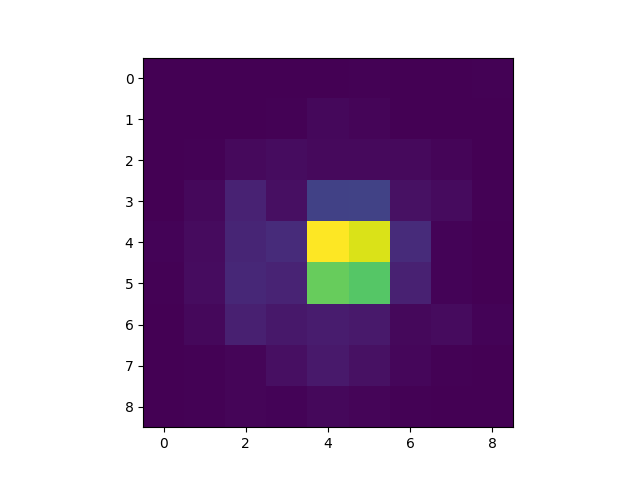
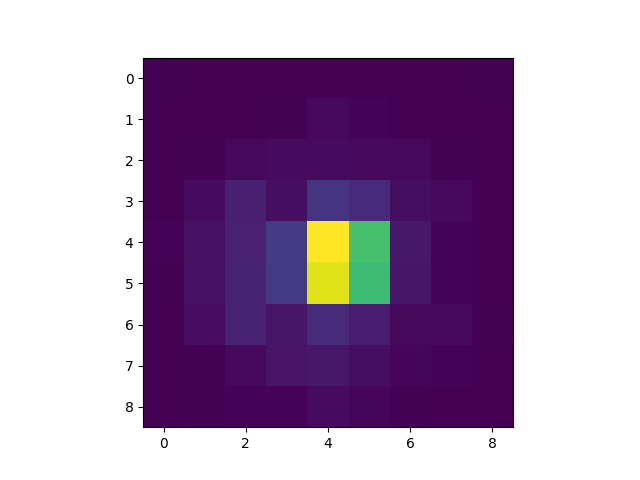
fixed psf offset

Changed region(s): [[0.4688, 0.4375, 0.625, 0.6562]]

diff --git a/st_phot/photometry.py b/st_phot/photometry.py
@@ -82,8 +82,7 @@ class observation3():
         else:
             positions = np.atleast_2d(xy_positions)
         if self.telescope=='JWST':
-            #radius,apcorr,skyan_in,skyan_out = jwst_apcorr(self.fname,encircled_energy)
-            radius,apcorr,skyan_in,skyan_out = 5,1,6,8
+            radius,apcorr,skyan_in,skyan_out = jwst_apcorr(self.fname,encircled_energy)
             epadu = self.sci_header['XPOSURE']*self.sci_header['PHOTMJSR']
         else:
             if self.sci_header['BUNIT']=='ELECTRON':
@@ -221,14 +220,17 @@ class observation():
                 else:
                     x,y = plant_locations[i]
                 flux = JWST_mag_to_flux(magnitudes[j],self.wcs_list[i])
-                
-                flux = flux/np.sum(psf_model.data)/psf_corr
+                psf_model.x_0 = x
+                psf_model.y_0 = y
+                psf_model.flux = flux/np.sum(psf_model.data)#/psf_corr
+                #psf_arr = flux*psf_model.data/astropy.nddata.extract_array(\
+                #    self.pams[i],psf_model.data.shape,[x,y])
+                yf, xf = np.mgrid[0:temp['SCI',1].data.shape[0],0:temp['SCI',1].data.shape[1]].astype(int)
+                psf_arr = psf_model(yf,xf)
+            
 
-                psf_arr = flux*psf_model.data/astropy.nddata.extract_array(\
-                    self.pams[i],psf_model.data.shape,[x,y])
-                
-                temp['SCI',1].data = astropy.nddata.add_array(temp['SCI',1].data,
-                    psf_arr,[x,y])
+                temp['SCI',1].data+=psf_arr# = astropy.nddata.add_array(temp['SCI',1].data,
+                    #psf_arr,[x,y])
             temp.writeto(self.exposure_fnames[i].replace('.fits','_plant.fits'),overwrite=True)
 
 
@@ -578,23 +580,22 @@ class observation():
                 bk_std = self.psf_result.errors['bkg%i'%i]
             else:
                 bk_std = 0
-            psf_pam = astropy.nddata.utils.extract_array(self.pams[i],self.psf_model_list[i].data.shape,[x,y],mode='strict')
-            psf_pams.append(psf_pam)
+            #psf_pam = astropy.nddata.utils.extract_array(self.pams[i],self.psf_model_list[i].data.shape,[x,y],mode='strict')
+            #psf_pams.append(psf_pam)
             
             yf, xf = np.mgrid[0:self.data_arr[i].shape[0],0:self.data_arr[i].shape[1]].astype(int)
 
-            psf_arr = self.psf_model_list[i](yf,xf)*self.pams[i]#self.psf_pams[i]
-            flux_sum = simple_aperture_sum(psf_arr,np.atleast_2d([y,x]),10)
+            psf_arr = self.psf_model_list[i](yf,xf)#*self.pams[i]#self.psf_pams[i]
 
+            flux_sum = np.sum(psf_arr)#simple_aperture_sum(psf_arr,np.atleast_2d([y,x]),10)
 
             if self.telescope == 'JWST':
-                psf_corr,model_psf = calc_jwst_psf_corr(10,self.instrument,self.filter,self.wcs_list[i],psf=model_psf)
-                
-                flux,fluxerr,mag,magerr,zp = calibrate_JWST_flux(flux_sum*psf_corr,
+                psf_corr,model_psf = calc_jwst_psf_corr(self.psf_model_list[i].shape[0]/2,self.instrument,self.filter,self.wcs_list[i],psf=model_psf)
+                flux,fluxerr,mag,magerr,zp = calibrate_JWST_flux(flux_sum,#*psf_corr,
                     np.sqrt(((self.psf_result.errors[flux_var]/self.psf_result.best[self.psf_result.vparam_names.index(flux_var)])*\
                     flux_sum*psf_corr)**2+bk_std**2),self.wcs_list[i])
             else:
-                psf_corr = calc_hst_psf_corr(10,self.detector,self.filter,[x,y],'/Users/jpierel/DataBase/HST/psfs')
+                psf_corr = calc_hst_psf_corr(self.psf_model_list[i].shape[0]/2,self.detector,self.filter,[x,y],'/Users/jpierel/DataBase/HST/psfs')
 
                 flux,fluxerr,mag,magerr,zp = calibrate_HST_flux(flux_sum*psf_corr,
                     np.sqrt(((self.psf_result.errors[flux_var]/self.psf_result.best[self.psf_result.vparam_names.index(flux_var)])*\
@@ -796,7 +797,7 @@ class observation():
                         mflux+=parameters[vparam_names.index('bkg%i'%i)]
                     else:
                         mflux+=parameters[vparam_names.index('bkg')]
-                mflux*=self.pams[i][posx,posy]
+                #mflux*=self.pams[i][posx,posy]
                 # plt.imshow(fluxes[i])
                 # plt.show()
                 # plt.imshow(mflux)
@@ -878,7 +879,7 @@ class observation():
                     res.data_arr[i]-=res.best[vparam_names.index('bkg%i'%i)]
                 else:
                     res.data_arr[i]-=res.best[vparam_names.index('bkg')]
-            mflux*=self.pams[i][posx,posy]
+            #mflux*=self.pams[i][posx,posy]
             resid = res.data_arr[i]-mflux
             all_resid_arr.append(resid)
             
@@ -902,11 +903,15 @@ class observation():
         fig,axes = plt.subplots(self.n_exposures,3)
         axes = np.atleast_2d(axes)
         for i in range(self.n_exposures):
-            axes[i][0].imshow(self.psf_result.data_arr[i])
+            norm1 = astropy.visualization.simple_norm(self.psf_result.data_arr[i],stretch='linear')
+            axes[i][0].imshow(self.psf_result.data_arr[i],
+                norm=norm1)
             axes[i][0].set_title('Data')
-            axes[i][1].imshow(self.psf_result.psf_arr[i])
+            axes[i][1].imshow(self.psf_result.psf_arr[i],
+                norm=norm1)
             axes[i][1].set_title('Model')
-            axes[i][2].imshow(self.psf_result.resid_arr[i])
+            axes[i][2].imshow(self.psf_result.resid_arr[i],
+                norm=norm1)
             axes[i][2].set_title('Residual')
             for j in range(3):
                 axes[i][j].tick_params(

diff --git a/Docs/source/_examples/plot_c_plant.py b/Docs/source/_examples/plot_c_plant.py
@@ -52,10 +52,11 @@ Observations.download_products(data_products_by_obs,extension='fits')
 
 files = glob.glob('mastDownload/JWST/jw02767002001_02103_00001_nrcb3/*cal.fits')
 print(files)
-plant_location = SkyCoord('21:29:42.4275','+0:04:53.634',unit=(u.hourangle,u.deg))
+plant_location = SkyCoord('21:29:42.4104','+0:04:53.253',unit=(u.hourangle,u.deg))
 jwst_obs = st_phot.observation(files)
-psfs = st_phot.get_jwst_psf(jwst_obs,plant_location,num_psfs=4,psf_width=9)
-plt.imshow(psfs[0].data)
+psfs = st_phot.get_jwst_psf(jwst_obs,plant_location,num_psfs=4)
+plt.imshow(extract_array(psfs[0].data,(9,9),(psfs[0].data.shape[0]/2,
+    psfs[0].data.shape[1]/2)))
 plt.show()
 
 ####################################################################
@@ -114,7 +115,7 @@ plt.show()
 jwst_obs.plot_psf_posterior(minweight=.0005)
 plt.show()
 
-print('PSF Mag:',jwst_obs.psf_result.phot_cal_table['mag'])
+print('PSF Mag:',float(jwst_obs.psf_result.phot_cal_table['mag']))
 
-jwst_obs.aperture_photometry(plant_location,encircled_energy='70')
-print('Aperture Mag:',jwst_obs.aperture_result.phot_cal_table['mag'])
+jwst_obs.aperture_photometry(plant_location,encircled_energy='50')
+print('Aperture Mag:',float(jwst_obs.aperture_result.phot_cal_table['mag']))

diff --git a/Docs/source/examples/plot_c_plant.py b/Docs/source/examples/plot_c_plant.py
@@ -52,10 +52,11 @@ Observations.download_products(data_products_by_obs,extension='fits')
 
 files = glob.glob('mastDownload/JWST/jw02767002001_02103_00001_nrcb3/*cal.fits')
 print(files)
-plant_location = SkyCoord('21:29:42.4275','+0:04:53.634',unit=(u.hourangle,u.deg))
+plant_location = SkyCoord('21:29:42.4104','+0:04:53.253',unit=(u.hourangle,u.deg))
 jwst_obs = st_phot.observation(files)
-psfs = st_phot.get_jwst_psf(jwst_obs,plant_location,num_psfs=4,psf_width=9)
-plt.imshow(psfs[0].data)
+psfs = st_phot.get_jwst_psf(jwst_obs,plant_location,num_psfs=4)
+plt.imshow(extract_array(psfs[0].data,(9,9),(psfs[0].data.shape[0]/2,
+    psfs[0].data.shape[1]/2)))
 plt.show()
 
 ####################################################################
@@ -114,7 +115,7 @@ plt.show()
 jwst_obs.plot_psf_posterior(minweight=.0005)
 plt.show()
 
-print('PSF Mag:',jwst_obs.psf_result.phot_cal_table['mag'])
+print('PSF Mag:',float(jwst_obs.psf_result.phot_cal_table['mag']))
 
-jwst_obs.aperture_photometry(plant_location,encircled_energy='70')
-print('Aperture Mag:',jwst_obs.aperture_result.phot_cal_table['mag'])
+jwst_obs.aperture_photometry(plant_location,encircled_energy='50')
+print('Aperture Mag:',float(jwst_obs.aperture_result.phot_cal_table['mag']))

diff --git a/st_phot/cal.py b/st_phot/cal.py
@@ -101,8 +101,19 @@ def calc_hst_psf_corr(ap_rad,instrument,band,pos,psf=None,sci_ext=1):
     yg, xg = np.mgrid[-1*(psf_width-1)/2:(psf_width+1)/2,-1*(psf_width-1)/2:(psf_width+1)/2].astype(int)
     yf, xf = yg+int(y+.5), xg+int(x+.5)
     psf = np.array(psf(xf,yf)).astype(float)
+    big_psf = np.sum(psf)
+
+    psf_width =ap_rad*2
+    psf.x_0 = psf_width/2#pos[0]
+    psf.y_0 = psf_width/2#pos[1]
+    x,y=(psf.x_0,psf.y_0)
+
+    yg, xg = np.mgrid[-1*(psf_width-1)/2:(psf_width+1)/2,-1*(psf_width-1)/2:(psf_width+1)/2].astype(int)
+    yf, xf = yg+int(y+.5), xg+int(x+.5)
+    psf = np.array(psf(xf,yf)).astype(float)
+    return(big_psf/np.sum(psf))
     #print('tot',float(simple_aperture_sum(psf,[250,250],100)))
-    return(simple_aperture_sum(psf,[250,250],100)/simple_aperture_sum(psf,[250,250],ap_rad))
+    #return(np.sum(psf)/simple_aperture_sum(psf,[250,250],100)/simple_aperture_sum(psf,[250,250],ap_rad))
 
 
     

diff --git a/st_phot/util.py b/st_phot/util.py
@@ -27,7 +27,7 @@ from .wfc3_photometry.psf_tools.PSFUtils import make_models
 from .wfc3_photometry.psf_tools.PSFPhot import get_standard_psf
 
 __all__ = ['get_jwst_psf','get_hst_psf']
-def get_jwst_psf(st_obs,sky_location,num_psfs=16,psf_width=41):
+def get_jwst_psf(st_obs,sky_location,num_psfs=16,psf_width=101):
     inst = webbpsf.instrument(st_obs.instrument)
     inst.filter = st_obs.filter
     inst.detector=st_obs.detector
@@ -46,7 +46,7 @@ def get_jwst_psf(st_obs,sky_location,num_psfs=16,psf_width=41):
         psf_list.append(epsf_model)
     return psf_list
 
-def get_hst_psf(st_obs,sky_location,psf_width=21):
+def get_hst_psf(st_obs,sky_location,psf_width=101):
     grid = make_models(get_standard_psf(os.path.join(os.path.abspath(os.path.dirname(__file__)),
             'wfc3_photometry/psfs'),st_obs.filter,st_obs.detector))[0]
     psf_list = []

diff --git a/setup.py b/setup.py
@@ -16,7 +16,7 @@ if sys.version_info < (3, 0):
 
 AUTHOR = 'Justin Pierel'
 AUTHOR_EMAIL = 'jpierel@stsci.edu'
-VERSION = '0.0.2'
+VERSION = '0.0.4'
 LICENSE = 'BSD'
 URL = ''
 

diff --git a/Docs/source/examples/plot_c_plant.rst b/Docs/source/examples/plot_c_plant.rst
@@ -91,7 +91,7 @@ For this example we download JWST cal images from MAST. We just use
 
     <div class="output_subarea output_html rendered_html output_result">
     <div><i>Table length=1</i>
-    <table id="table140403173174352" class="table-striped table-bordered table-condensed">
+    <table id="table140429608239840" class="table-striped table-bordered table-condensed">
     <thead><tr><th>Local Path</th><th>Status</th><th>Message</th><th>URL</th></tr></thead>
     <thead><tr><th>str92</th><th>str8</th><th>object</th><th>object</th></tr></thead>
     <tr><td>./mastDownload/JWST/jw02767002001_02103_00001_nrcb3/jw02767002001_02103_00001_nrcb3_cal.fits</td><td>COMPLETE</td><td>None</td><td>None</td></tr>
@@ -111,17 +111,18 @@ the psf_photometry function, or else at least just do this once,
 save the ouptut, and then read it in and proceed to photometry
 for testing purposes.
 
-.. GENERATED FROM PYTHON SOURCE LINES 52-61
+.. GENERATED FROM PYTHON SOURCE LINES 52-62
 
 .. code-block:: default
 
 
     files = glob.glob('mastDownload/JWST/jw02767002001_02103_00001_nrcb3/*cal.fits')
     print(files)
-    plant_location = SkyCoord('21:29:42.4275','+0:04:53.634',unit=(u.hourangle,u.deg))
+    plant_location = SkyCoord('21:29:42.4104','+0:04:53.253',unit=(u.hourangle,u.deg))
     jwst_obs = st_phot.observation(files)
-    psfs = st_phot.get_jwst_psf(jwst_obs,plant_location,num_psfs=4,psf_width=9)
-    plt.imshow(psfs[0].data)
+    psfs = st_phot.get_jwst_psf(jwst_obs,plant_location,num_psfs=4)
+    plt.imshow(extract_array(psfs[0].data,(9,9),(psfs[0].data.shape[0]/2,
+        psfs[0].data.shape[1]/2)))
     plt.show()
 
 
@@ -161,13 +162,13 @@ for testing purposes.
 
 
 
-.. GENERATED FROM PYTHON SOURCE LINES 62-65
+.. GENERATED FROM PYTHON SOURCE LINES 63-66
 
 **Examine the first Image**
 
 You can see we've chosen a region of the image with no sources.
 
-.. GENERATED FROM PYTHON SOURCE LINES 65-79
+.. GENERATED FROM PYTHON SOURCE LINES 66-80
 
 .. code-block:: default
 
@@ -210,12 +211,12 @@ You can see we've chosen a region of the image with no sources.
 
 
 
-.. GENERATED FROM PYTHON SOURCE LINES 80-82
+.. GENERATED FROM PYTHON SOURCE LINES 81-83
 
 **Plant the PSF**
 
 
-.. GENERATED FROM PYTHON SOURCE LINES 82-99
+.. GENERATED FROM PYTHON SOURCE LINES 83-100
 
 .. code-block:: default
 
@@ -248,12 +249,12 @@ You can see we've chosen a region of the image with no sources.
 
 
 
-.. GENERATED FROM PYTHON SOURCE LINES 100-102
+.. GENERATED FROM PYTHON SOURCE LINES 101-103
 
 **Measure PSF photometry and Aperture photometry for the source**
 
 
-.. GENERATED FROM PYTHON SOURCE LINES 102-120
+.. GENERATED FROM PYTHON SOURCE LINES 103-121
 
 .. code-block:: default
 
@@ -272,10 +273,10 @@ You can see we've chosen a region of the image with no sources.
     jwst_obs.plot_psf_posterior(minweight=.0005)
     plt.show()
 
-    print('PSF Mag:',jwst_obs.psf_result.phot_cal_table['mag'])
+    print('PSF Mag:',float(jwst_obs.psf_result.phot_cal_table['mag']))
 
-    jwst_obs.aperture_photometry(plant_location,encircled_energy='70')
-    print('Aperture Mag:',jwst_obs.aperture_result.phot_cal_table['mag'])
+    jwst_obs.aperture_photometry(plant_location,encircled_energy='50')
+    print('Aperture Mag:',float(jwst_obs.aperture_result.phot_cal_table['mag']))
 
 
 .. rst-class:: sphx-glr-horizontal
@@ -291,7 +292,7 @@ You can see we've chosen a region of the image with no sources.
     *
 
       .. image-sg:: /examples/images/sphx_glr_plot_c_plant_005.png
-         :alt: flux = ${5.39}_{-0.12}^{+0.11}$, x0 = ${1843.88}_{-0.02}^{+0.02}$, y0 = ${160.12}_{-0.02}^{+0.02}$, bkg = ${0.25}_{-0.01}^{+0.01}$
+         :alt: flux = ${5.54}_{-0.12}^{+0.15}$, x0 = ${1834.49}_{-0.02}^{+0.02}$, y0 = ${149.25}_{-0.02}^{+0.02}$, bkg = ${0.26}_{-0.01}^{+0.01}$
          :srcset: /examples/images/sphx_glr_plot_c_plant_005.png
          :class: sphx-glr-multi-img
 
@@ -308,13 +309,9 @@ You can see we've chosen a region of the image with no sources.
     Set OBSGEO-B to    20.544618 from OBSGEO-[XYZ].
     Set OBSGEO-H to 1233352579.016 from OBSGEO-[XYZ]'.
       warnings.warn(
-    Finished PSF psf_photometry with median residuals of 6.51%
-    PSF Mag:        mag        
-    ------------------
-    26.066926990308957
-    Aperture Mag:       mag       
-    ----------------
-    25.9319767560215
+    Finished PSF psf_photometry with median residuals of 2.59%
+    PSF Mag: 25.975240433351242
+    Aperture Mag: 26.02872023857849
 
 
 
@@ -322,7 +319,7 @@ You can see we've chosen a region of the image with no sources.
 
 .. rst-class:: sphx-glr-timing
 
-   **Total running time of the script:** ( 0 minutes  33.647 seconds)
+   **Total running time of the script:** ( 0 minutes  38.845 seconds)
 
 
 .. _sphx_glr_download_examples_plot_c_plant.py:

diff --git a/Docs/source/examples/sg_execution_times.rst b/Docs/source/examples/sg_execution_times.rst
@@ -5,10 +5,10 @@
 
 Computation times
 =================
-**00:33.647** total execution time for **examples** files:
+**00:38.845** total execution time for **examples** files:
 
 +----------------------------------------------------------------------+-----------+--------+
-| :ref:`sphx_glr_examples_plot_c_plant.py` (``plot_c_plant.py``)       | 00:33.647 | 0.0 MB |
+| :ref:`sphx_glr_examples_plot_c_plant.py` (``plot_c_plant.py``)       | 00:38.845 | 0.0 MB |
 +----------------------------------------------------------------------+-----------+--------+
 | :ref:`sphx_glr_examples_plot_a_psf.py` (``plot_a_psf.py``)           | 00:00.000 | 0.0 MB |
 +----------------------------------------------------------------------+-----------+--------+
